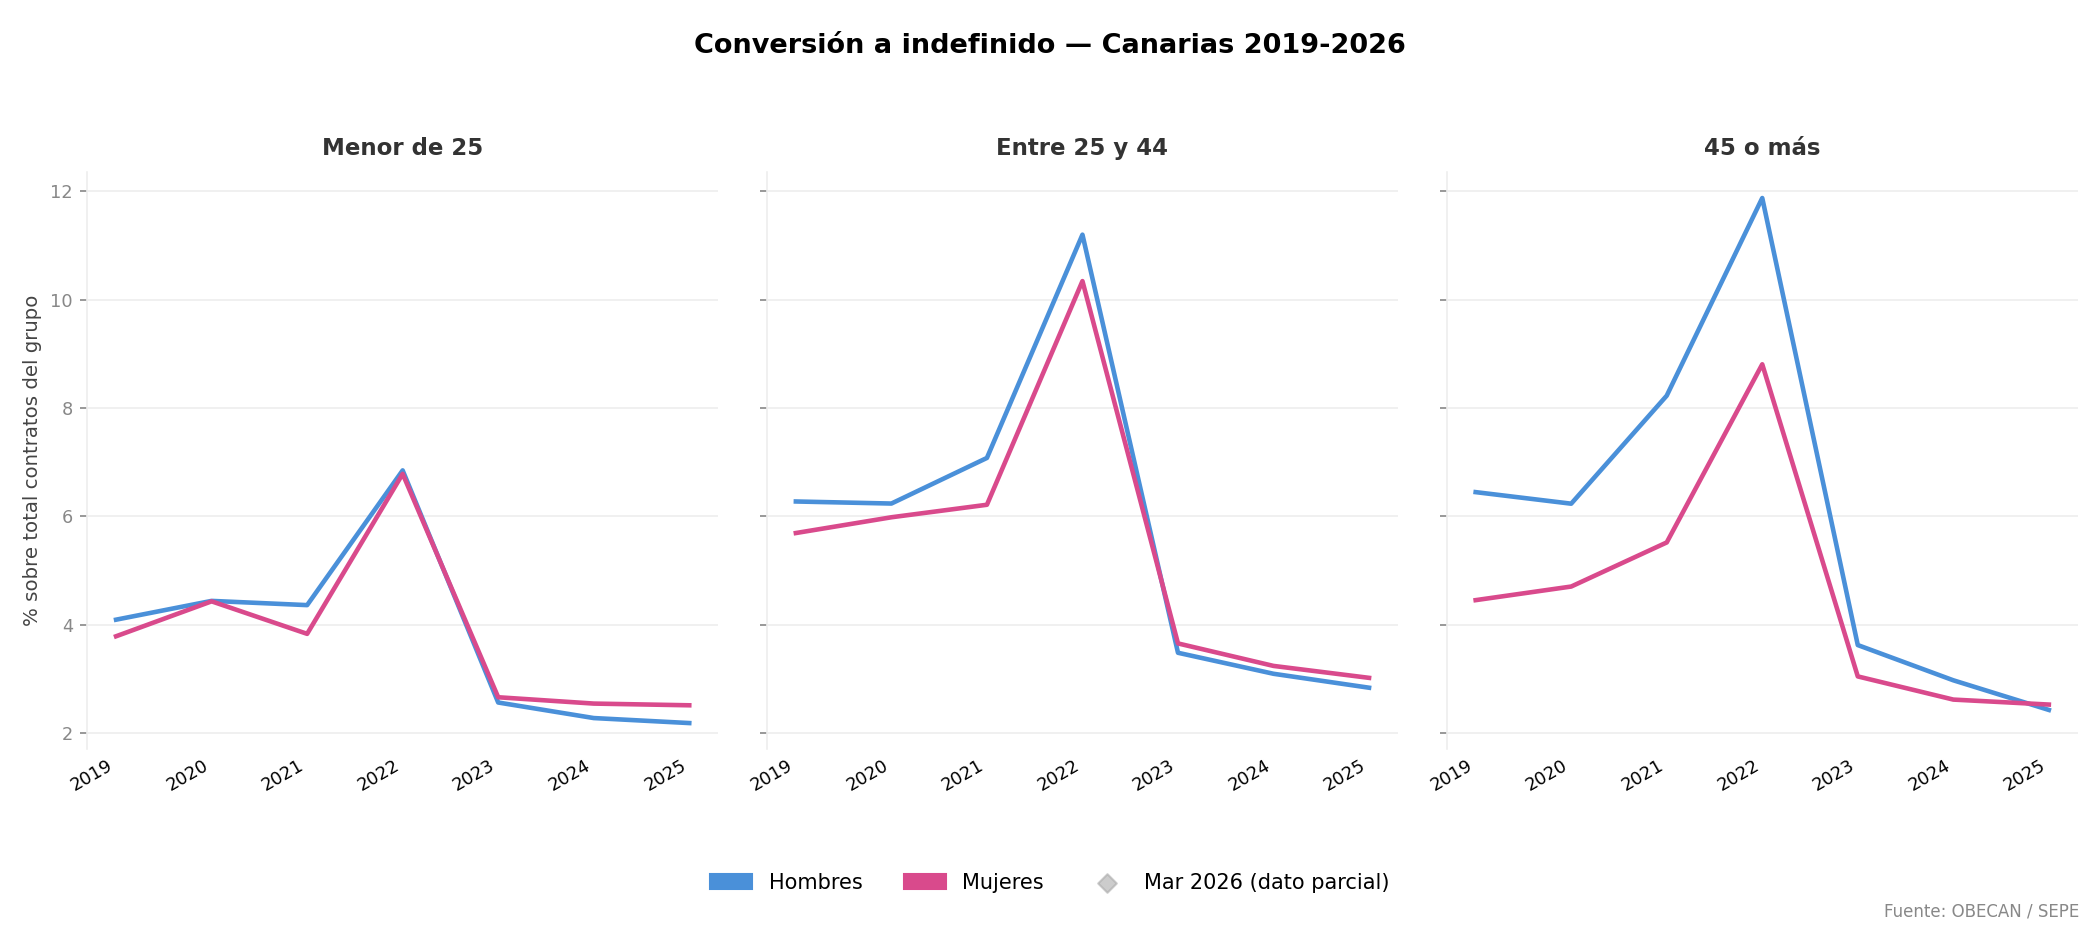
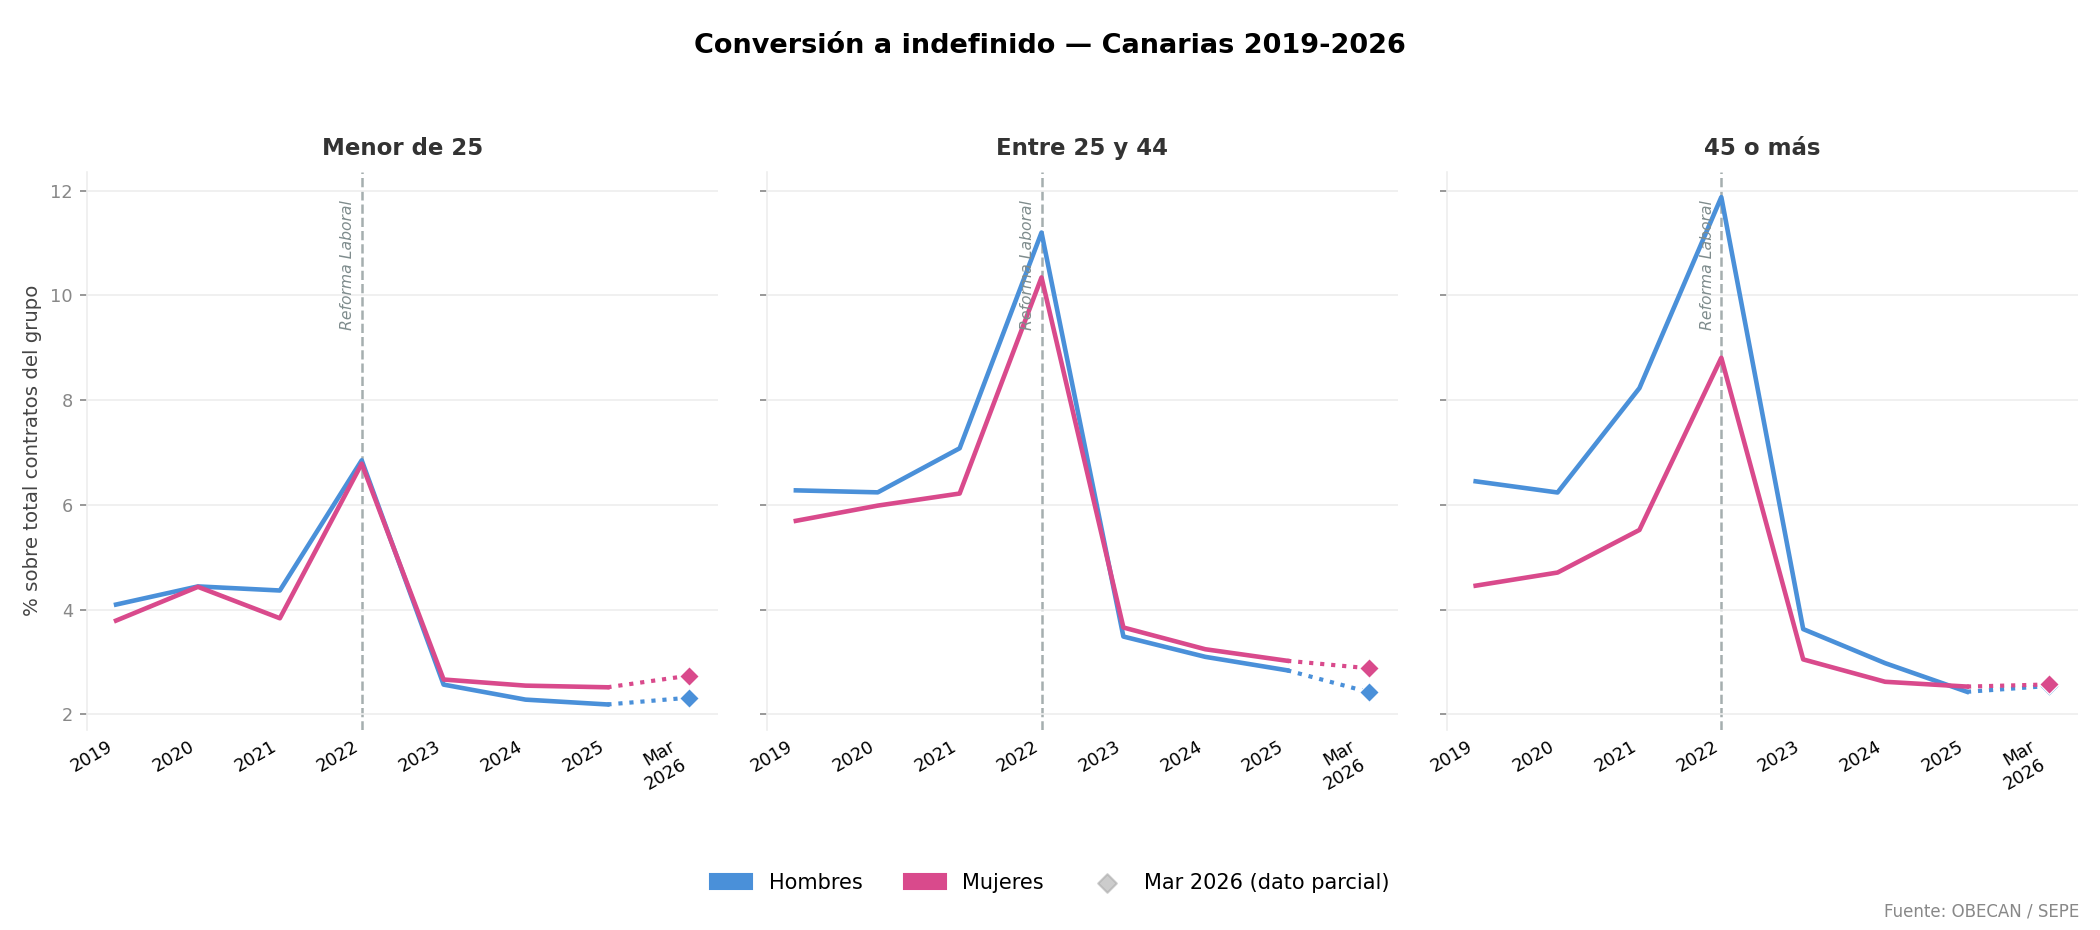
style: add vertical dashed line for 2022 and dotted projection with diamond marker for March 2026 in historical plots

diff --git a/assets_proyecto5/plots_assets.py b/assets_proyecto5/plots_assets.py
@@ -1123,10 +1123,32 @@ def plot_historico_tipos_contrato_por_edad(context: AssetExecutionContext) -> No
                            (agg["tc"] == tc_name)].set_index("año")
                 vals = [sub.loc[a, "pct"] if a in sub.index else np.nan for a in AÑOS]
 
+                # Trazar línea continua hasta el penúltimo año
                 xs = [i for i, a in enumerate(AÑOS)
                       if a <= (AÑO_FIN - 1) and not np.isnan(vals[i])]
                 ys = [vals[i] for i in xs]
                 ax.plot(xs, ys, color=COLORS[sexo], lw=2.2)
+
+                # Proyección al último año (dato parcial) con línea punteada y diamante
+                if AÑO_FIN in AÑOS and (AÑO_FIN - 1) in AÑOS:
+                    x_prev = AÑOS.index(AÑO_FIN - 1)
+                    x_curr = AÑOS.index(AÑO_FIN)
+                    y_prev = vals[x_prev]
+                    y_curr = vals[x_curr]
+                    if not np.isnan(y_prev) and not np.isnan(y_curr):
+                        # Línea discontinua de proyección
+                        ax.plot([x_prev, x_curr], [y_prev, y_curr], color=COLORS[sexo], lw=2.0, linestyle=":")
+                        # Diamante
+                        ax.scatter(x_curr, y_curr, marker="D", s=45, color=COLORS[sexo],
+                                   edgecolors="white", linewidths=0.6, zorder=5)
+
+            # Línea discontinua vertical para la Reforma Laboral en 2022
+            if 2022 in AÑOS:
+                idx_2022 = AÑOS.index(2022)
+                ax.axvline(x=idx_2022, color="#7f8c8d", linestyle="--", alpha=0.7, lw=1.2, zorder=1)
+                ax.text(idx_2022 - 0.08, 0.95, "Reforma Laboral",
+                        transform=ax.get_xaxis_transform(),
+                        rotation=90, ha="right", va="top", color="#7f8c8d", fontsize=7.5, style="italic")
 
             mes_abbr = {
                 1: "Ene", 2: "Feb", 3: "Mar", 4: "Abr", 5: "May", 6: "Jun",
